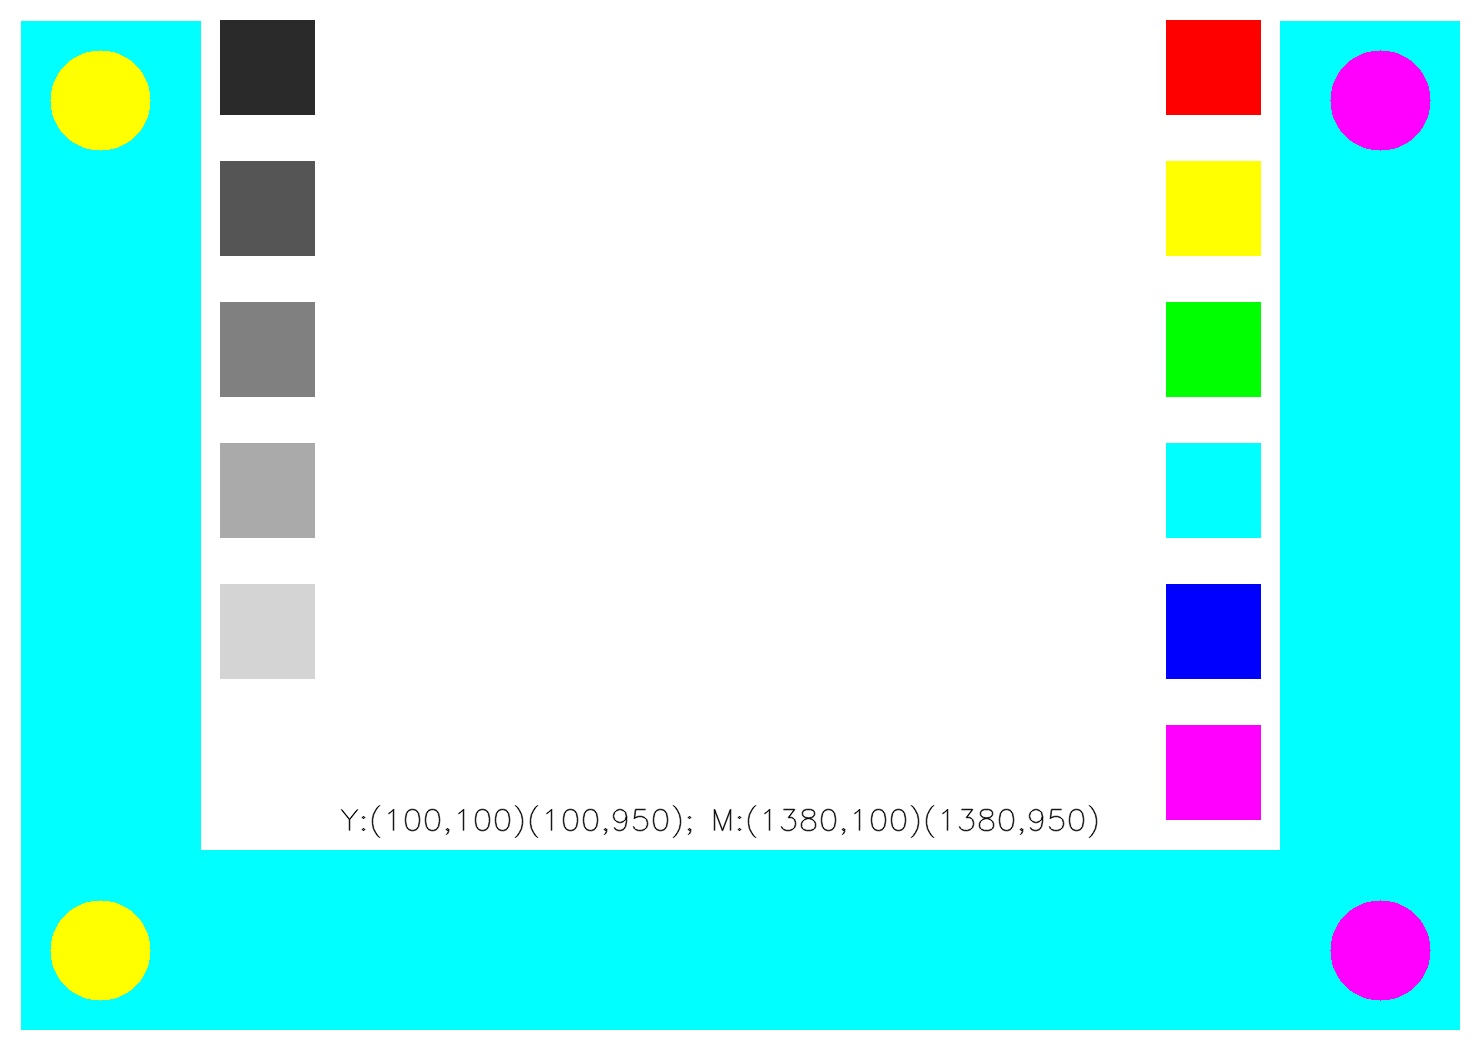
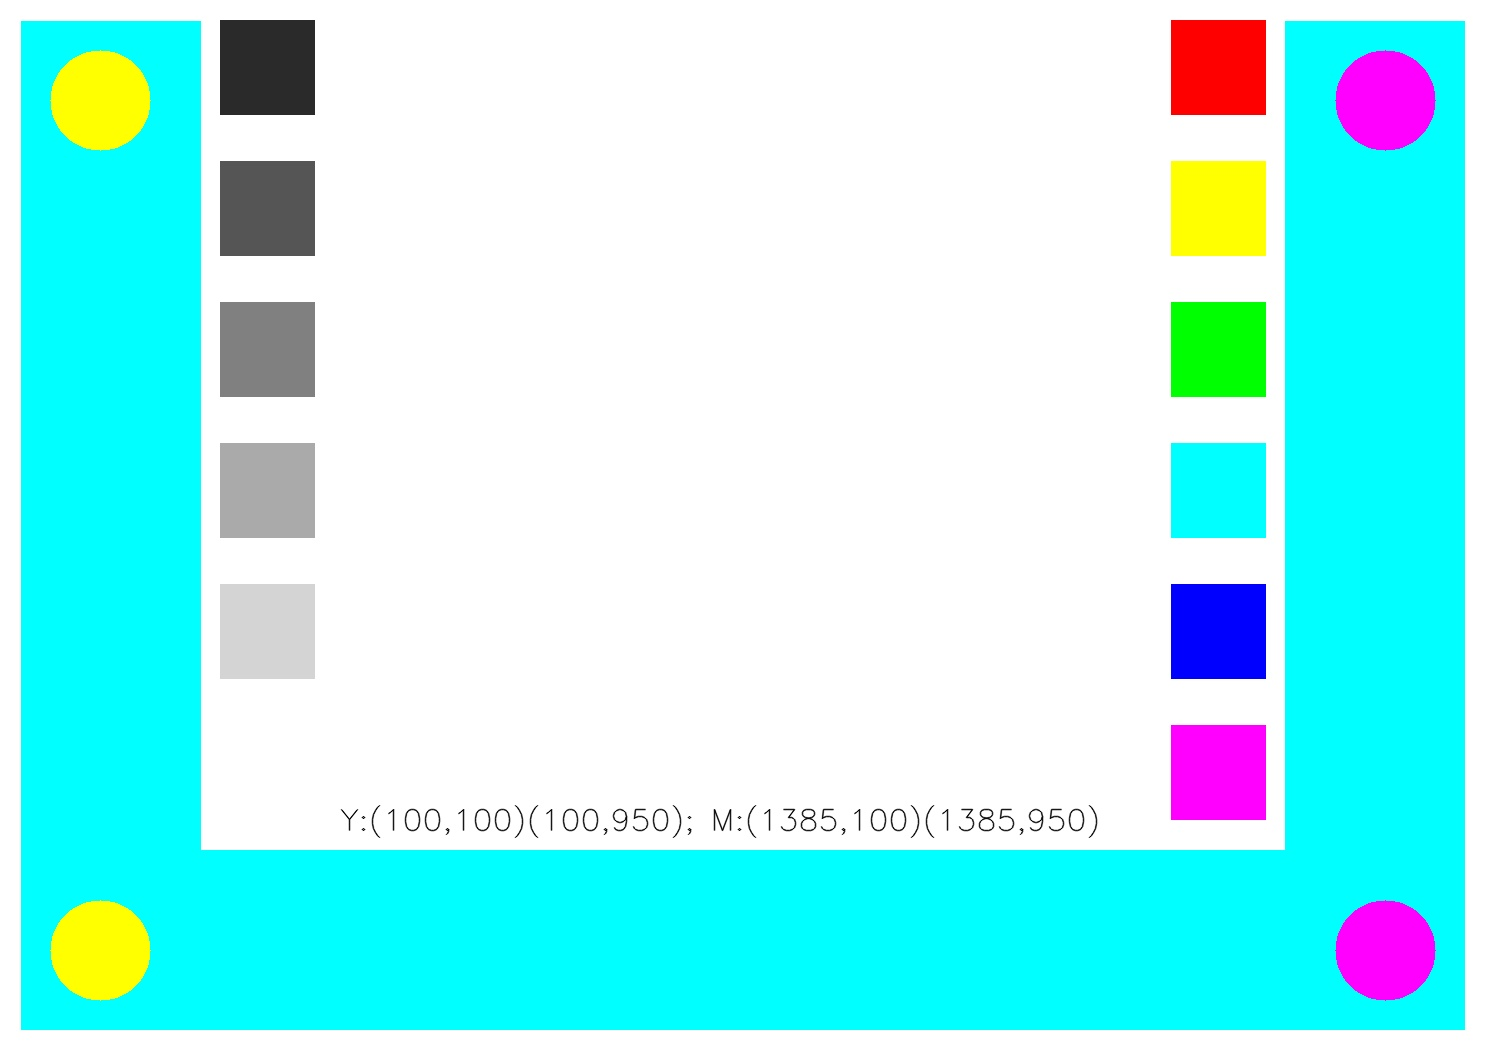
minor bug fixes, test with QR photos pasted in

diff --git a/chemicalVision_main.py b/chemicalVision_main.py
@@ -1070,7 +1070,7 @@ else:
 totalIndex=int(totalFrames/dictSet['set fr'][0])
 parameterStats=np.zeros((32,6,totalIndex+dictSet['set fr'][0],5))
 if totalFrames==1:
-    grabbedStats=np.zeros((32,6,100,10))
+    grabbedStats=np.zeros((32,6,100,5))
 else:
     grabbedStats=np.zeros((32,6,totalIndex,5))
 grabCount=0

diff --git a/RefCard_Swatches_A6.py b/RefCard_Swatches_A6.py
@@ -11,7 +11,7 @@ settingString='''
 #qrimg = qrcode.make(settingString)
 #open_qr_image = np.array(qrimg.convert('RGB'))
 #open_qr_image = cv2.resize(open_qr_image, (400, 400))
-paperWidth=1480
+paperWidth=1485
 paperHeight=1050
 borderMargin=200
 numberSwatches=6
